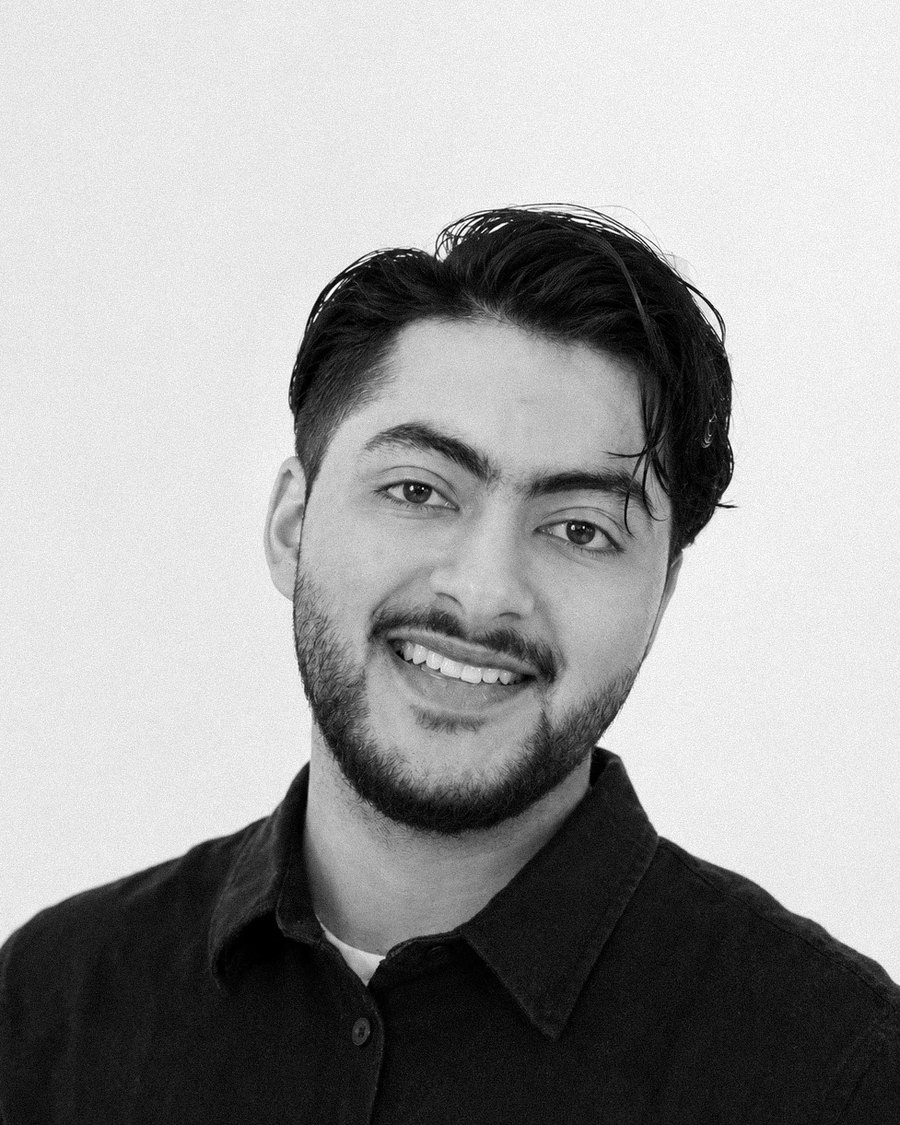
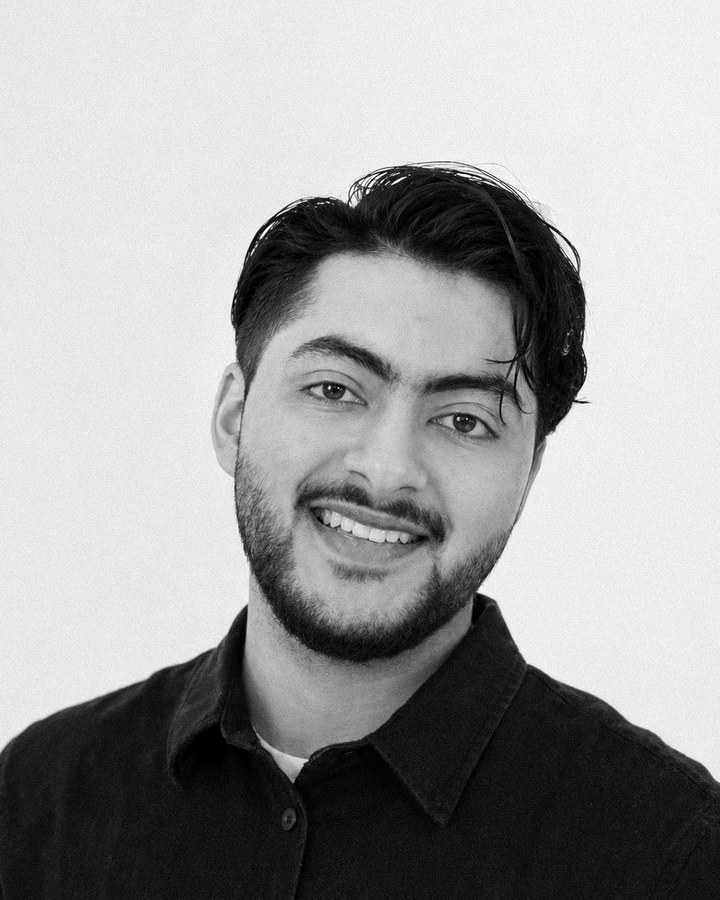
Add Fatima Shakeel's portrait, matched to Aun's
Both director portraits are now real photographs, cropped as a
deliberate pair rather than two unrelated images.

To match them I measured the head in each original and cropped so that
in both final images the head occupies 50% of the frame height and its
top sits at 17.5% from the top. Fatima's source was a seated
three-quarter shot (1054x1492) and Aun's a head-and-shoulders
(977x1610), so without this they would have sat at visibly different
scales side by side.

Both output at 720x900 (4:5, the widest ratio the site uses, so
object-fit:cover trims safely to the 3:4 About portrait and the
140x180 home thumb). Fatima's crop is an upscale, so a light unsharp
mask was applied to hold detail; Aun's is a downscale and needed none.
Progressive JPEGs, 126KB and 108KB.

Both appear on the home directors strip and the About team section;
verified loading and rendering identically (720x900 natural, 651x814
rendered) on both pages. No stock portraits remain for the directors.

diff --git a/about.html b/about.html
@@ -164,7 +164,7 @@
         <p class="m-bio">Co-founder of the practice. Leads design and client relationships, from the first consultation through planning to completion on site. Specialises in masterplanning and urban design, with experience across sites of every scale and programme.</p>
       </div>
       <div class="member">
-        <img src="https://images.unsplash.com/photo-1573496359142-b8d87734a5a2?w=800&q=85" alt="Fatima Shakeel, Director" loading="lazy">
+        <img src="assets/img/fatima-shakeel.jpg" alt="Fatima Shakeel, Director" loading="lazy">
         <h3>Fatima Shakeel</h3>
         <div class="m-role">Director</div>
         <p class="m-bio">Co-founder of the practice. Leads planning strategy and technical delivery, and is the point of contact through construction.</p>

diff --git a/index.html b/index.html
@@ -253,7 +253,7 @@
         </div>
       </div>
       <div class="director">
-        <img src="https://images.unsplash.com/photo-1573496359142-b8d87734a5a2?w=800&q=85" alt="Fatima Shakeel, Director" loading="lazy">
+        <img src="assets/img/fatima-shakeel.jpg" alt="Fatima Shakeel, Director" loading="lazy">
         <div class="d-body">
           <h3>Fatima Shakeel</h3>
           <div class="d-role">Director &#183; Leads planning strategy</div>

diff --git a/build_pages.py b/build_pages.py
@@ -263,7 +263,7 @@ IMG = {
 
     # -------- Team headshots (neutral professional) --------
     'team1':   'assets/img/aun-naeem.jpg',
-    'team2':   U+'photo-1573496359142-b8d87734a5a2?w=800&q=85',
+    'team2':   'assets/img/fatima-shakeel.jpg',
     'team3':   U+'photo-1519085360753-af0119f7cbe7?w=800&q=85',
     'team4':   U+'photo-1580489944761-15a19d654956?w=800&q=85',
 }
